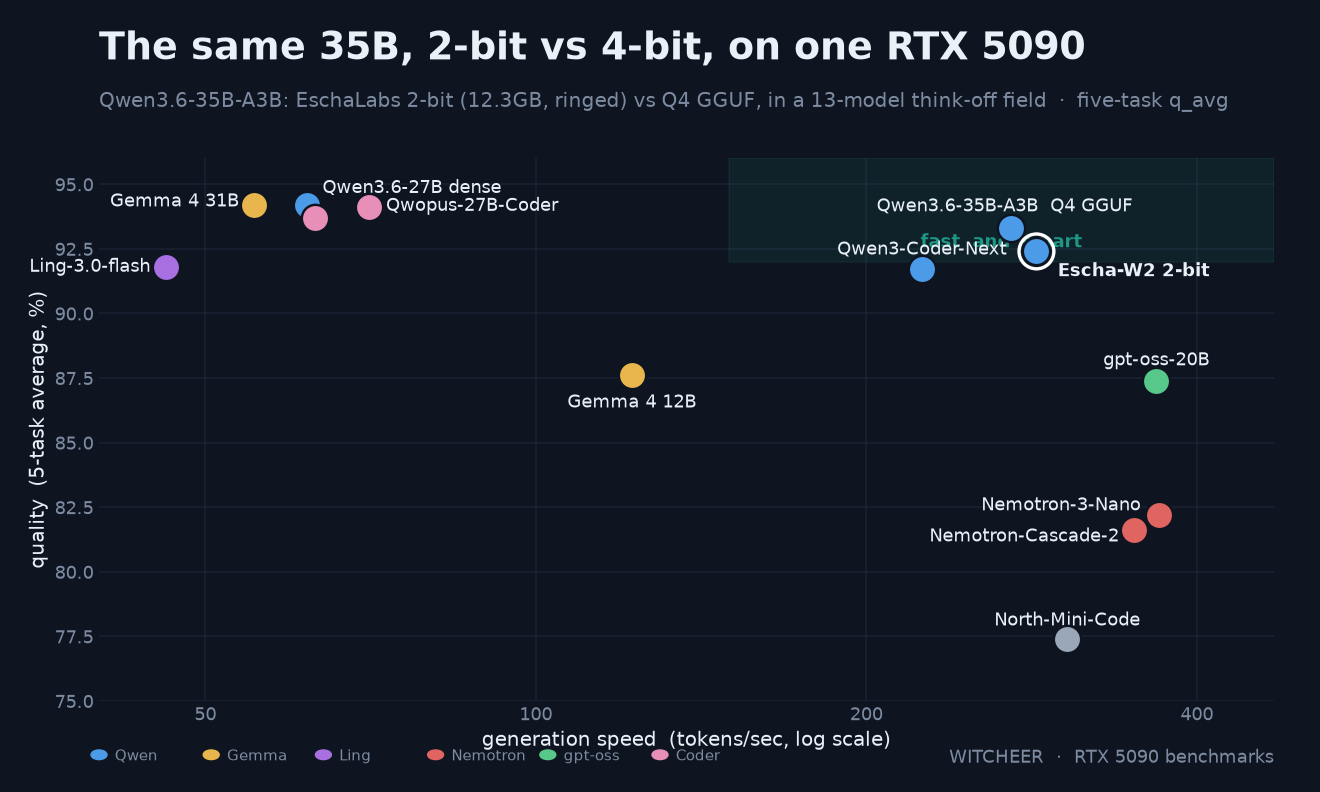
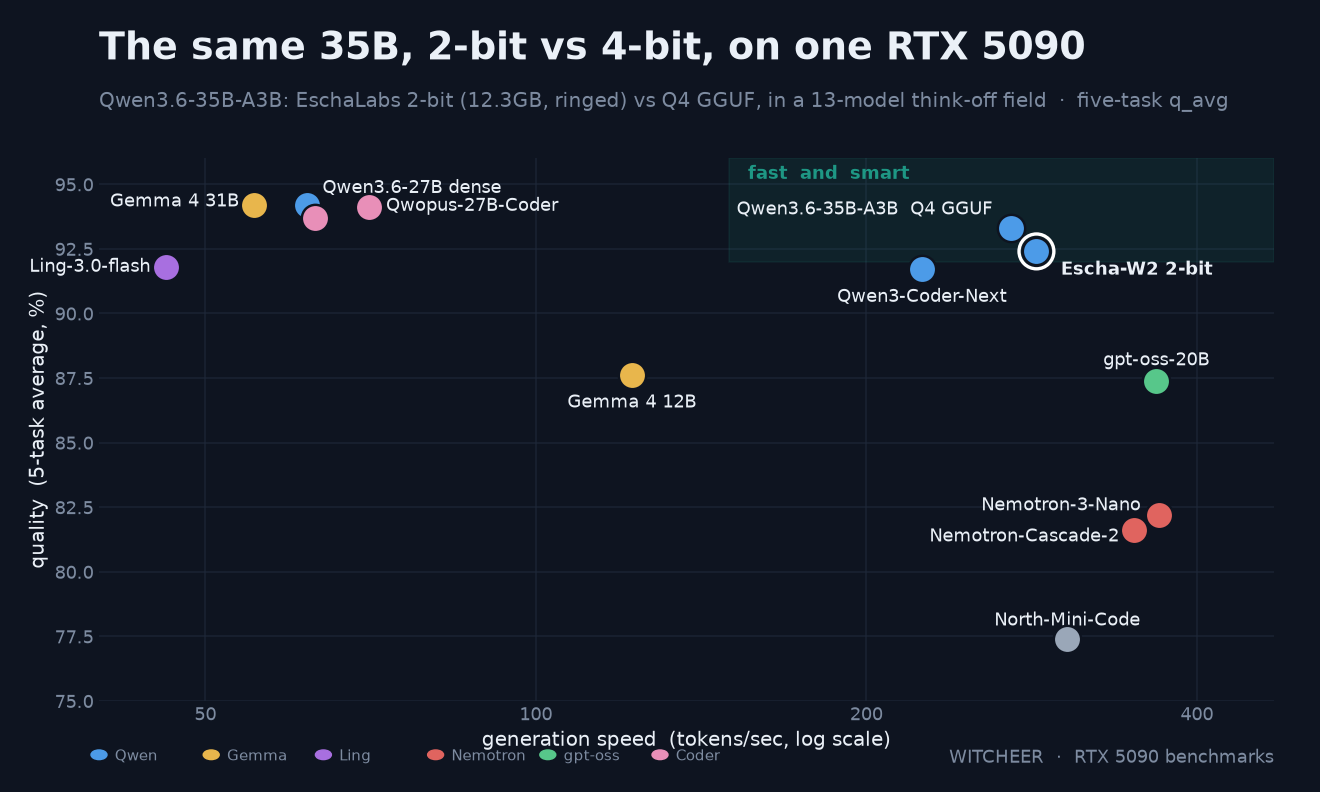
chart: quadrant wash label anchored top-left of ideal box (was colliding with subject points); escha quadrant re-render

diff --git a/scripts/chart_quadrant.py b/scripts/chart_quadrant.py
@@ -74,8 +74,10 @@ def render():
     if IDEAL_BOX:
         xl, yb, xr, yt = IDEAL_BOX
         ax.add_patch(Rectangle((xl, yb), xr-xl, yt-yb, color=IDEAL, alpha=0.10, zorder=1))
-        ax.text((xl*xr)**0.5, yb+0.4, "fast  and  smart", color=IDEAL, fontsize=11.5,
-                fontweight="bold", ha="center", va="bottom", alpha=0.95)
+        # anchor the wash label in the box's top-left corner: the geometric centre is
+        # exactly where subject points tend to live (collision found 2026-08-11)
+        ax.text(xl*1.04, yt-0.25, "fast  and  smart", color=IDEAL, fontsize=11.5,
+                fontweight="bold", ha="left", va="top", alpha=0.95)
 
     for label, q, ts, fam, off, show, subject in DATA:
         c = C.get(fam, C["other"])
